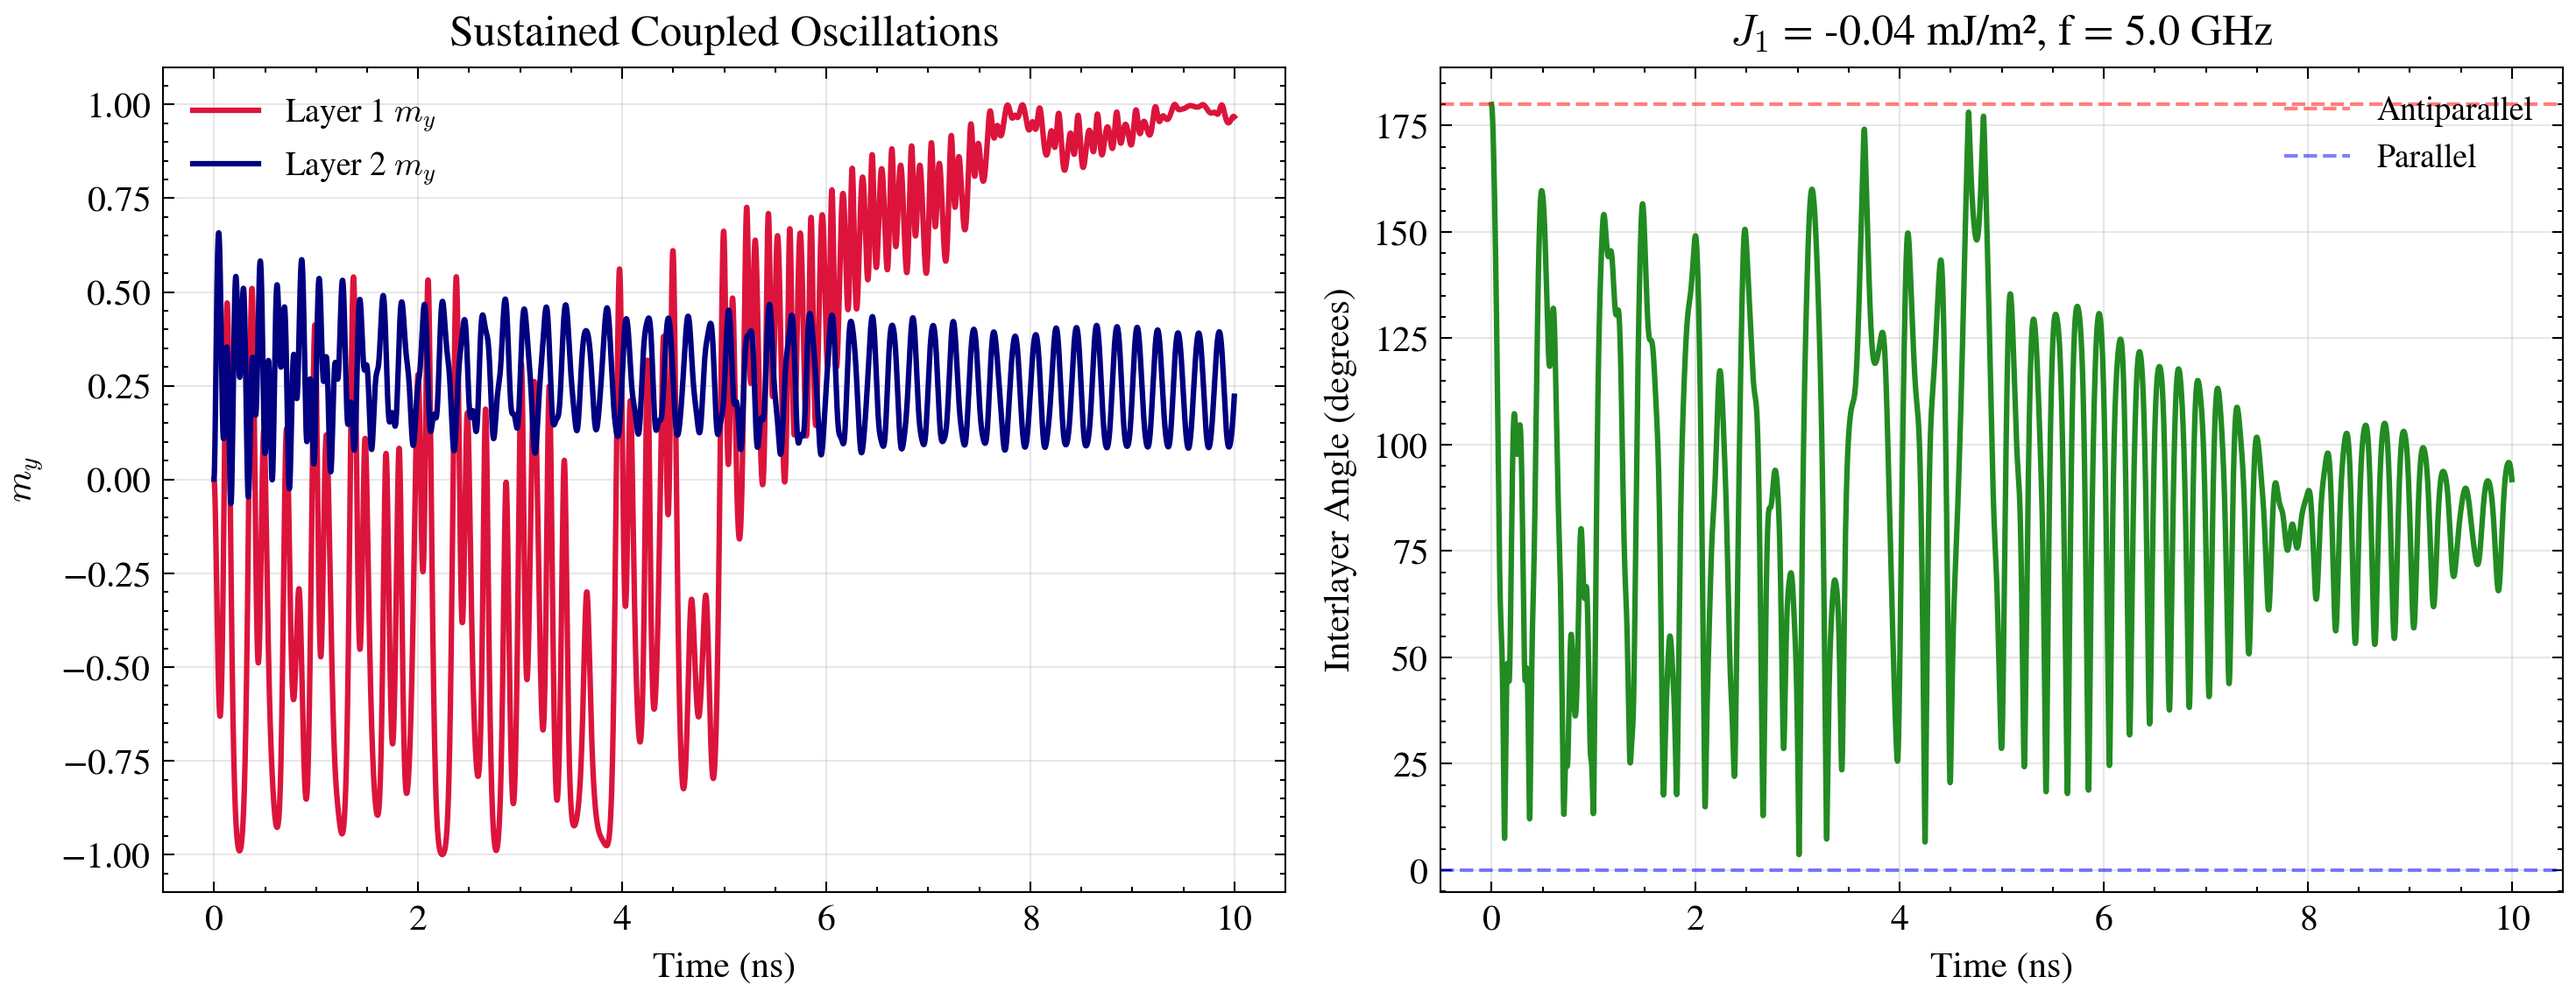
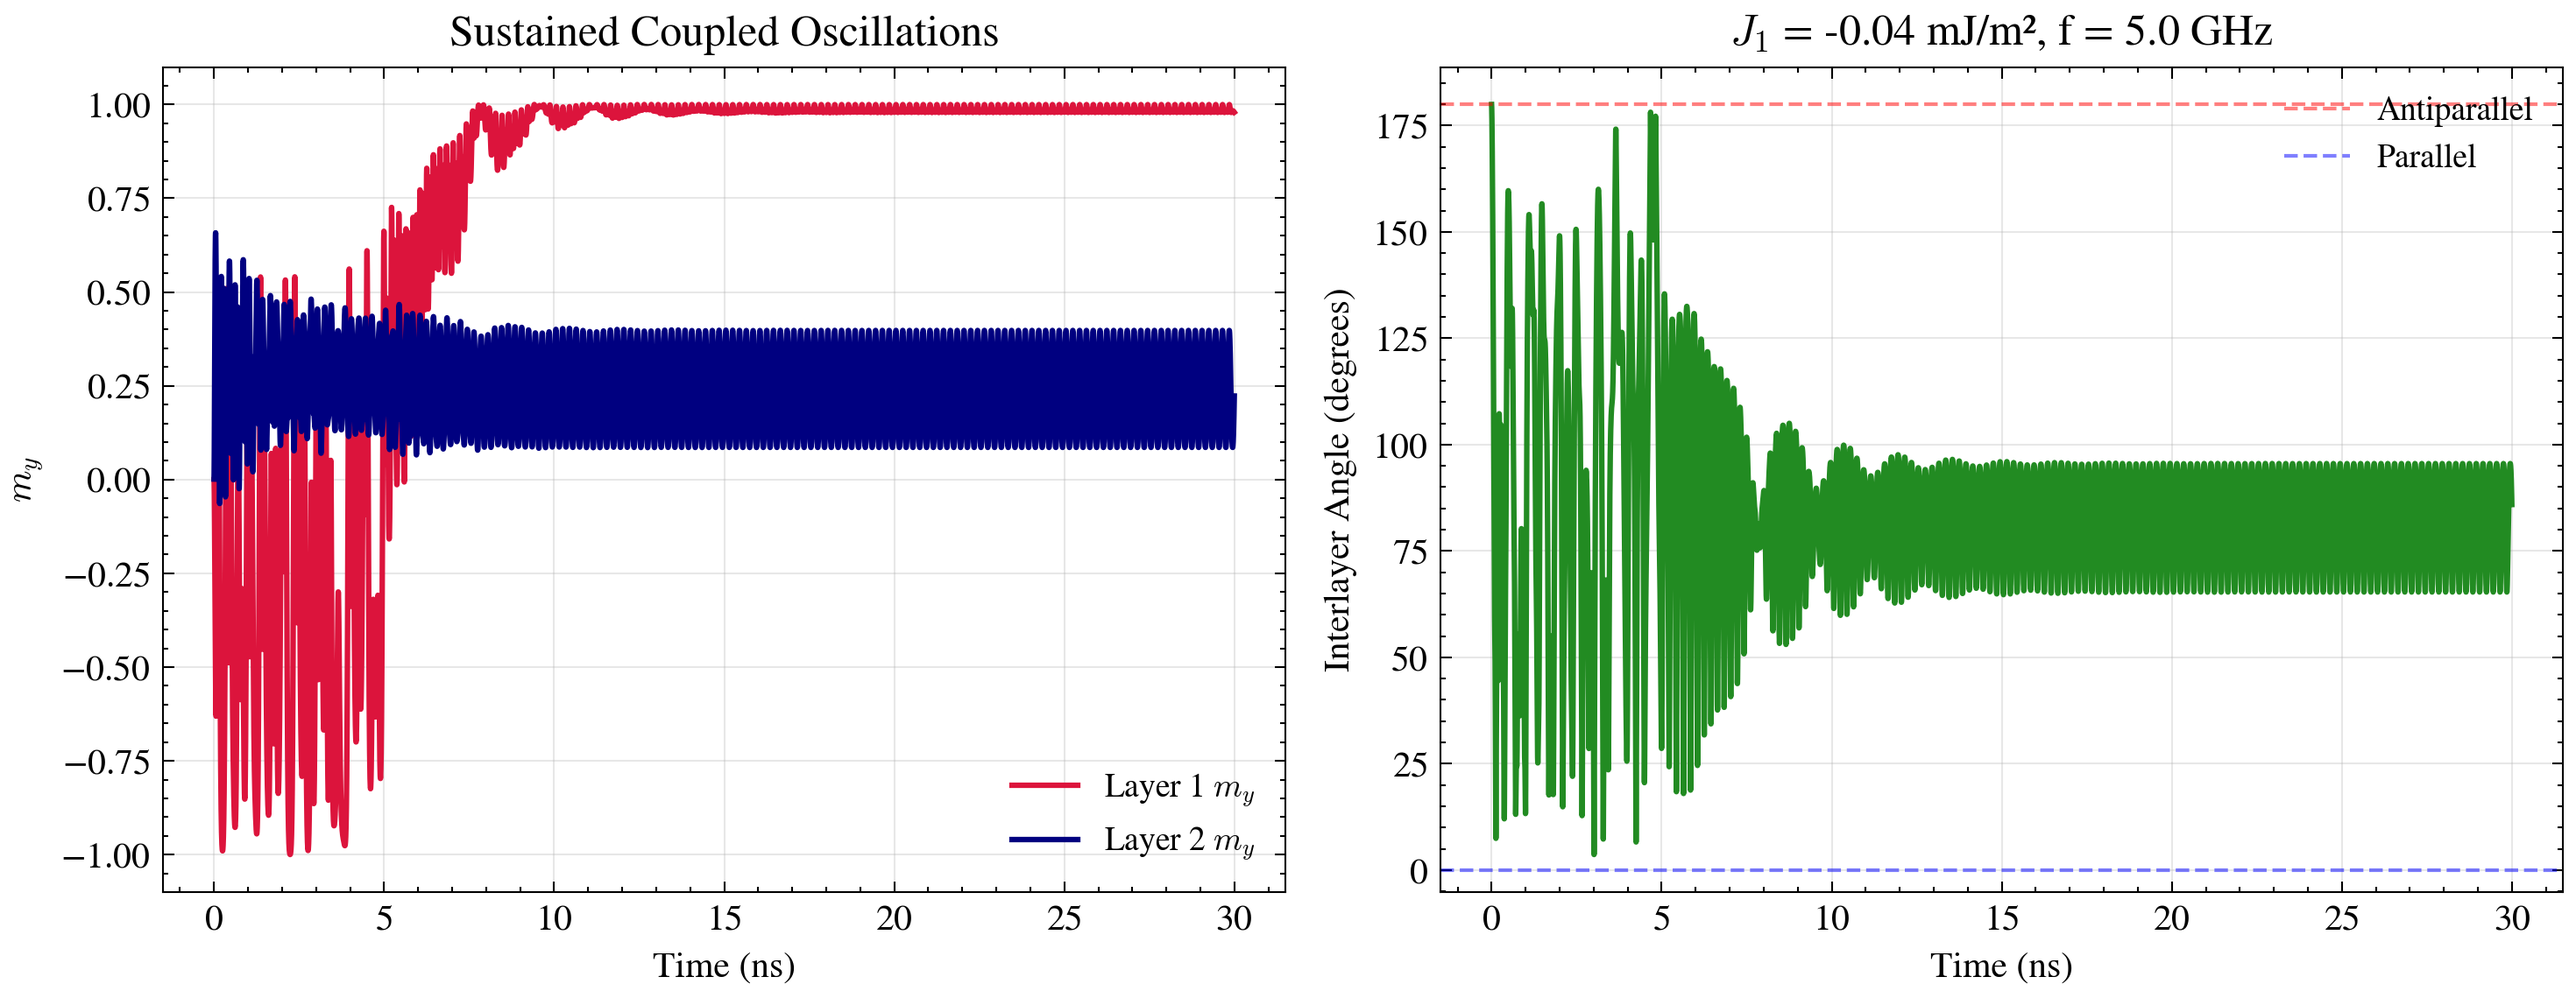
Update IEC coupling: use dt=1e-12 and extend simulation to 30ns

diff --git a/curated-examples/iec-coupling.py b/curated-examples/iec-coupling.py
@@ -116,8 +116,8 @@ junction.setLayerExternalFieldDriver(
     ),
 )
 
-dt = 1e-13
-sim_time = 10e-9  # 10 ns to show sustained oscillations (within 1-500 ns range)
+dt = 1e-12
+sim_time = 30e-9  # 30 ns to show sustained oscillations (within 1-500 ns range)
 junction.runSimulation(sim_time, dt, dt)
 
 # Get simulation log
